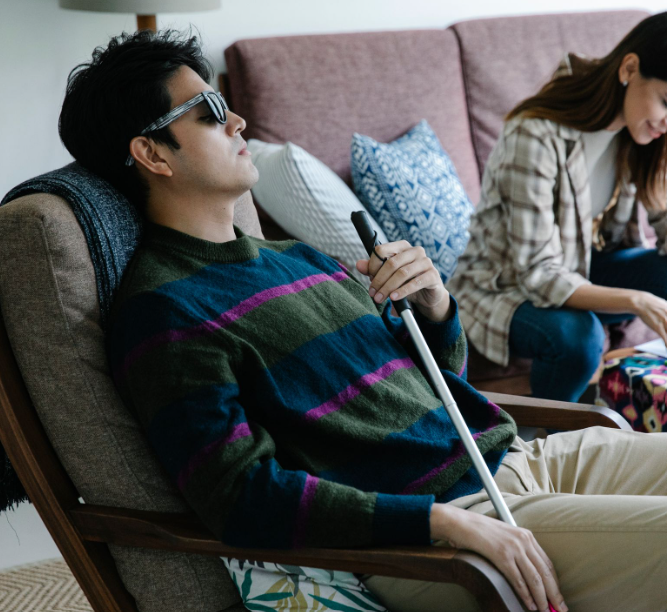
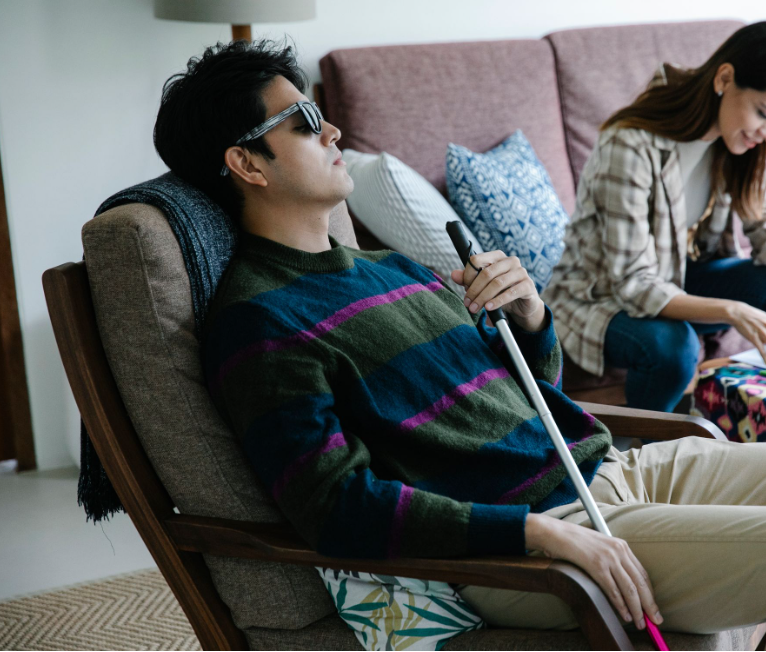
feat: update search bar styling and functionality, replace mindfulness workshop image

diff --git a/src/components/Nav/nav.css b/src/components/Nav/nav.css
@@ -86,7 +86,7 @@ body > header > nav > .mobile-menu {
 
   > .mobile-menu {
     flex-shrink: 0;
-    margin-right: auto;
+    margin-right: 4rem;
   }
 }
 body:has(> header)::before {
@@ -131,4 +131,33 @@ body:has(> header)::before {
       left: 0;
     }
   }
+}
+
+.navigation {
+  display: flex;
+  align-items: center;
+  gap: 1.5rem;
+}
+
+/* Zoekbalk rechts gedrukt via margin-left: auto */
+.navigation .search-wrapper {
+  margin-left: auto;
+  max-width: 500px;
+  width: 100%;
+}
+
+/* Mobiel: logo | zoekbalk | hamburger */
+@media (max-width: 1000px) {
+  .navigation {
+    display: grid;
+    grid-template-columns: auto 1fr auto;
+    align-items: center;
+    gap: 1rem;
+  }
+
+  /* Volgorde: 1 logo, 2 zoekbalk, 3 hamburger, 4 mobile-menu */
+  .logo           { order: 1; }
+  .search-wrapper { order: 2; margin-left: 0; }
+  .hamburger      { order: 3; }
+  .mobile-menu    { order: 4; }
 }
